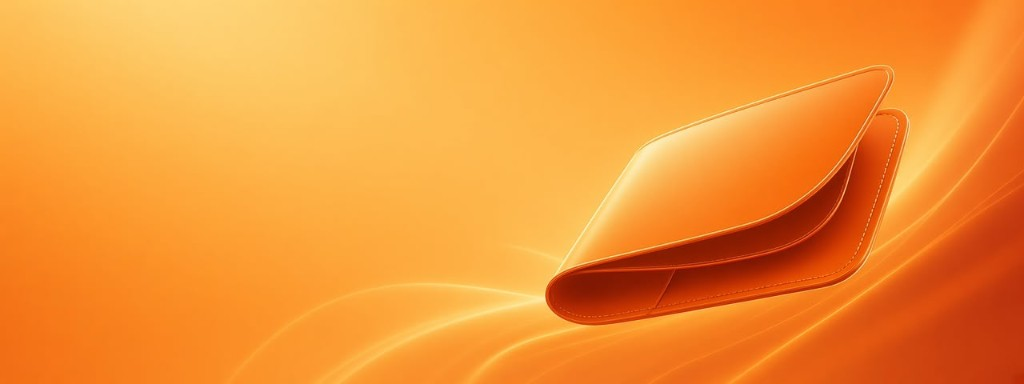
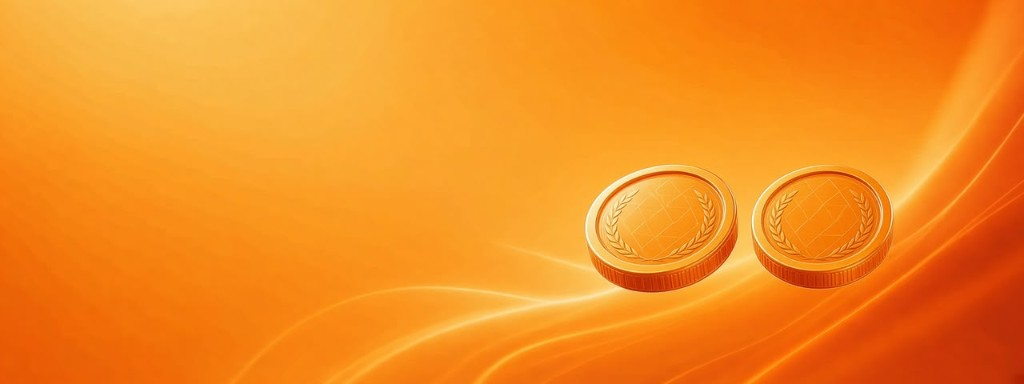
uyio

diff --git a/app/(app)/services/page.tsx b/app/(app)/services/page.tsx
@@ -13,10 +13,9 @@ import { useCountry } from "@/components/providers/country-provider";
 import {
   filterServices,
   getServicesDirectory,
-  SERVICE_QUICK_TAGS,
   serviceCategories,
   type ServiceDirectoryItem,
-  type ServiceQuickTag,
+  type ServiceFilterCategory,
 } from "@/lib/services-directory";
 import { cn } from "@/lib/utils";
 
@@ -28,10 +27,7 @@ export default function ServicesPage() {
     [country.code],
   );
   const [query, setQuery] = useState("");
-  const [category, setCategory] = useState<(typeof serviceCategories)[number]>(
-    "All",
-  );
-  const [tag, setTag] = useState<ServiceQuickTag | null>(null);
+  const [category, setCategory] = useState<ServiceFilterCategory>("All");
 
   useEffect(() => {
     const q = searchParams.get("q");
@@ -39,15 +35,11 @@ export default function ServicesPage() {
   }, [searchParams]);
 
   const visible = useMemo(
-    () => filterServices(services ?? [], { query, category, tag }),
-    [services, query, category, tag],
+    () => filterServices(services ?? [], { query, category }),
+    [services, query, category],
   );
 
   const popularCount = (services ?? []).filter((s) => s.popular).length;
-
-  function toggleTag(next: ServiceQuickTag) {
-    setTag((prev) => (prev === next ? null : next));
-  }
 
   return (
     <AppShell>
@@ -87,24 +79,6 @@ export default function ServicesPage() {
               placeholder="Search electricity, airtime, DStv…"
               className="h-9 w-full rounded-[12px] border border-border bg-muted/40 pr-3 pl-9 text-sm outline-none transition focus:border-primary focus:bg-background focus:ring-2 focus:ring-primary/15"
             />
-          </div>
-
-          <div className="mt-2 flex gap-1.5 overflow-x-auto pb-0.5 [-ms-overflow-style:none] [scrollbar-width:none] [&::-webkit-scrollbar]:hidden">
-            {SERVICE_QUICK_TAGS.map((item) => (
-              <button
-                key={item}
-                type="button"
-                onClick={() => toggleTag(item)}
-                className={cn(
-                  "shrink-0 rounded-full px-2.5 py-1 text-[11px] font-bold transition sm:text-xs",
-                  tag === item
-                    ? "bg-primary text-primary-foreground shadow-[var(--shadow-orange)]"
-                    : "bg-oryno-orange-muted text-primary ring-1 ring-primary/15 hover:bg-primary/15",
-                )}
-              >
-                {item}
-              </button>
-            ))}
           </div>
 
           <div className="mt-2 flex gap-1.5 overflow-x-auto pb-0.5 [-ms-overflow-style:none] [scrollbar-width:none] [&::-webkit-scrollbar]:hidden">
@@ -151,7 +125,6 @@ export default function ServicesPage() {
                 onClick={() => {
                   setQuery("");
                   setCategory("All");
-                  setTag(null);
                 }}
                 className="btn-secondary mt-5 h-11 px-5 text-sm"
               >
@@ -160,7 +133,7 @@ export default function ServicesPage() {
             </motion.div>
           ) : (
             <motion.div
-              key={`${category}-${query}-${tag ?? "all"}`}
+              key={`${category}-${query}`}
               initial={{ opacity: 0 }}
               animate={{ opacity: 1 }}
               className="grid grid-cols-3 gap-3 sm:grid-cols-4 sm:gap-4 lg:grid-cols-5"

diff --git a/lib/services-directory.ts b/lib/services-directory.ts
@@ -399,36 +399,40 @@ export function getServicesDirectory(countryCode?: string | null) {
   });
 }
 
-export const serviceCategories: Array<ServiceCategory | "All"> = [
+export const serviceCategories = [
   "All",
   "Popular",
+  "Most popular",
+  "Hot",
+  "Free",
   "Telecom",
   "Lifestyle",
   "Utilities",
   "Coming soon",
-];
-
-/** Quick-filter chips next to the services search bar. */
-export const SERVICE_QUICK_TAGS = [
-  "Most popular",
-  "Hot",
-  "Free",
 ] as const;
 
-export type ServiceQuickTag = (typeof SERVICE_QUICK_TAGS)[number];
+export type ServiceFilterCategory = (typeof serviceCategories)[number];
 
 export function filterServices(
   items: ServiceDirectoryItem[],
-  opts: { query?: string; category?: string; tag?: string | null },
+  opts: { query?: string; category?: string },
 ) {
   const q = (opts.query ?? "").trim().toLowerCase();
   const category = opts.category ?? "All";
-  const tag = (opts.tag ?? "").trim().toLowerCase();
 
   return items.filter((item) => {
     const matchesCategory =
       category === "All" ||
       (category === "Popular" && item.popular) ||
+      (category === "Most popular" &&
+        ((item.stats ?? "").toLowerCase() === "most popular" ||
+          item.tags.some((t) => t.toLowerCase() === "most popular"))) ||
+      (category === "Hot" &&
+        ((item.stats ?? "").toLowerCase() === "hot" ||
+          item.tags.some((t) => t.toLowerCase() === "hot"))) ||
+      (category === "Free" &&
+        ((item.stats ?? "").toLowerCase() === "free" ||
+          item.tags.some((t) => t.toLowerCase() === "free"))) ||
       (category === "Coming soon" &&
         (item.soon || item.category === "Coming soon")) ||
       item.category === category;
@@ -445,11 +449,6 @@ export function filterServices(
       .toLowerCase();
 
     const matchesQuery = !q || haystack.includes(q);
-    const matchesTag =
-      !tag ||
-      (item.stats ?? "").toLowerCase() === tag ||
-      item.tags.some((t) => t.toLowerCase() === tag);
-
-    return matchesCategory && matchesQuery && matchesTag;
+    return matchesCategory && matchesQuery;
   });
 }
